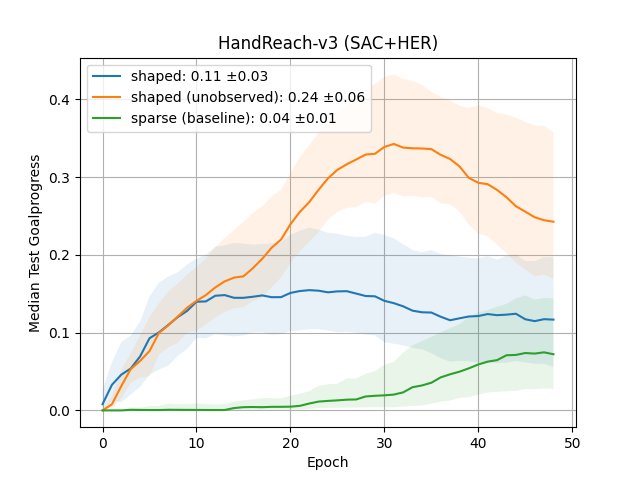
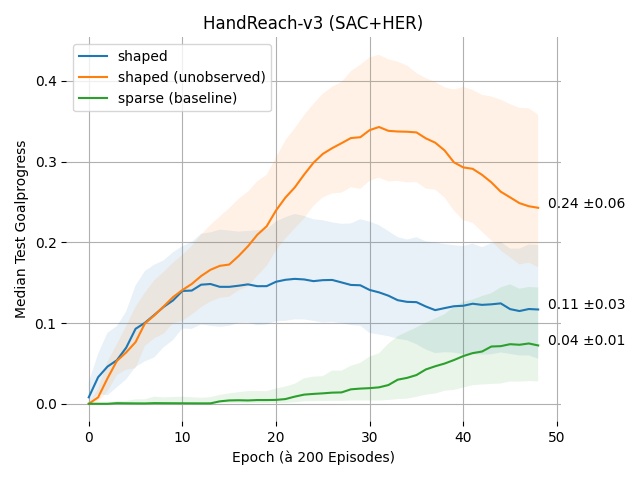
readme

diff --git a/src/custom_envs/goaldyn_handreach/shaped_handreach_env.py b/src/custom_envs/goaldyn_handreach/shaped_handreach_env.py
@@ -84,7 +84,7 @@ class ShapedHandReachEnv(MujocoHandReachEnv):
             obs = np.append(obs, goalderivs)
 
         # dgs-obs
-        IS_OBS_DGS = True
+        IS_OBS_DGS = False
         if IS_OBS_DGS:
             obs = np.append(obs, goaldist)
             obs = np.append(obs, goalderivs)
@@ -125,20 +125,6 @@ class ShapedHandReachEnv(MujocoHandReachEnv):
                 phi = info['phi']
                 reward += 0.95 * phi - phi_prev
 
-        # reward-design (inside vs. outside HER)
-        IS_REWARD_REDESIGN = False
-        if IS_REWARD_REDESIGN:
-            reward = 0
-            if 'goalderivs' in info.keys():
-                goalderivs = info['goalderivs']
-
-                # soft vs. hard dynamics ("get close fast")
-                if np.all(goalderivs < 0):
-                    reward = 1
-                # else:
-                if np.all(goalderivs > 0):
-                    reward = -1
-
         return reward
 
 
@@ -151,6 +137,18 @@ class ShapedHandReachEnv(MujocoHandReachEnv):
         info['phi_prev'] = phi_prev
         info['phi'] = phi
         reward = self.compute_reward(observation['achieved_goal'], observation['desired_goal'], info)
+
+        # reward-design (inside vs. outside HER)
+        IS_REWARD_REDESIGN = True
+        if IS_REWARD_REDESIGN:
+            reward = 0
+            # soft vs. hard dynamics ("get close fast")
+            if np.all(self.step_goalderivs < 0):
+                reward = 1
+            # else:
+            if np.all(self.step_goalderivs > 0):
+                reward = -1
+
 
         if info['is_success']:
             print('SUCCESS')

diff --git a/src/custom_envs/mom_fetchpush/plot.py b/src/custom_envs/mom_fetchpush/plot.py
@@ -239,17 +239,22 @@ all = {
 
 metric = [ex['metric'] for ex in all.values()]
 metric = pd.concat(metric, axis=1, ignore_index=True)
-metric.columns = [f"{ex[0]}: {ex[1].attrs['aucs_mean']} ±{ex[1].attrs['aucs_std']}" for ex in all.items()]
+metric.columns = all.keys()
+
 ax = metric.plot()
+
 ax.set_title('HandReach-v3 (SAC+HER)')
 ax.set_ylabel('Median Test Goalprogress')
-ax.set_xlabel('Epoch')
+ax.set_xlabel('Epoch (à 200 Episodes)')
 ax.set_axisbelow(True)
 
 
 # iqr
-for experiment in all.values():
-    ax.fill_between(x=experiment['epoch'], y1=experiment['q25'], y2=experiment['q75'], alpha=0.1)
+for ex in all.values():
+    ax.fill_between(x=ex['epoch'], y1=ex['q25'], y2=ex['q75'], alpha=0.1)
+    ax.text(x=49, y=ex['metric'].tail(1), s=f"{ex.attrs['aucs_mean']} ±{ex.attrs['aucs_std']}")
 
+plt.tight_layout()
+plt.box(False)
 plt.grid()
 plt.show()

diff --git a/README.md b/README.md
@@ -88,7 +88,7 @@ $$
  
 achieving states that are not only close, but are also expected to be closer in the next states, will be rewarded higher - their *goaldynamics* are more favorable.
 On the other hand, achieving states that are only statically close, or even moving away, will be rewarded lower.
-However, such a frequent rewarding enables *reward hacking*, where the agent might oscillate between moving closer and farther from the goal without actually reaching the goal, i.e. the converged policy is not the optimal policy, let alone a successful one. With a **conjunctive goalkinematic potential**
+However, such a frequent rewarding enables *reward hacking*, where the agent might oscillate between moving closer and farther from the goal without actually reaching the goal, i.e. the converged policy is not the optimal policy, let alone a successful one. With a **conjunctive goalkinematic potential (CGP)**
 
 $$
 \Phi_{conj}(s) =
@@ -99,9 +99,9 @@ $$
 \end{cases}
 $$
 
-that type of reward hacking is less probable with higher order $k$ , since isolated goalderivatives are not rewarded anymore. Since they are also not penalized, exploration is increased - this is especially beneficial in the multi-goal environments of the later sections.
+that type of reward hacking is less probable with higher order $k$ , since isolated goalderivatives are not rewarded anymore. Since they are also not penalized, exploration is allowed - this is especially beneficial in the multi-goal environments of the later sections.
 
-In 5 simulations within Gymnasium's sparse *HandReach* environment, where a robotic hand is trained to reach coordinates with its fingertips, the shaped reward ($k=3, \gamma = 0.95$)
+In 5 simulations à 50 epochs (one epoch consists of 200 episodes  à 50 timesteps) within Gymnasium's sparse *HandReach* environment, where a robotic hand is trained to reach coordinates with its fingertips, the shaped reward ($k=3, \gamma = 0.95$)
 $$
 \begin{split}
 \^R_1(s,a) &= R(s,a) + F(s,a) \\ 
@@ -109,26 +109,26 @@ $$
 \end{split}
 $$
 
-improved the median **sample efficiency**, defined as the area under the curve (AUC) of the *goalprogress*
+increased the evaluation **sample efficiency**, defined as the area under the curve (AUC) of the test *goalprogress*
 
 $$
-P = \frac{d_0 - d_{end}}{d_0} \\
+P = \frac{d_0 - d_{end}}{d_0}\quad (0 \le P \le 1) \\
 (d_{end} := \text{goaldistance at the end of the episode}),
 $$
 
-by factor **2.75** after 50 epochs (one epoch consists of 200 episodes  à 50 timesteps), compared to the unshaped baseline reward. The details of the experiments are described in the full work.
+by factor **2.75** (Fig. 1: blue line) compared to the unshaped baseline reward (Fig. 1: green line). The details of the experiments are described in the full work.
 
 [<img src="res/c1_goalprogress.png" width="100%"/>](res/c1_goalprogress.png) | 
 |:--:| 
-| Fig. 1: *Median test goalprogress (line) with interquartile range (shaded area) and area under the curve (legend)* |
+| Fig. 1: *Median test goalprogress (line) with interquartile range (shaded area) and mean AUC±std (label)* |
 
 
-Note: With potential-based shaping, this claim technically requires that the goaldistance and the DGS are part of the observable state space, which is a separate focus in this research. In the experiments, the efficiency gains were even more substantial (factor **6**, orange line) with non-observable goaldistance and DGS, i.e. possibly justifying the theoretical violation of the Markov assumption.
+Note: With potential-based shaping, this claim technically requires that the goaldistance and the DGS are part of the observable state space, which is a separate focus in this research. In the experiments, the efficiency gains were even more substantial by factor **6** (Fig. 1: orange line) with non-observable goaldistance and DGS, i.e. possibly justifying the theoretical violation of the Markov assumption.
 
 
 > **Research Claim 2** (Goalkinematic Reward Design)
 > 
-> In goal-oriented RL training towards an optimal policy, by designing rewards based on the goalderivative entries of the DGS vector, the training can be successful (i.e. the policy reaches and holds a reasonable goal) and more efficient.
+> In goal-oriented RL training towards an optimal policy, by designing rewards based on the goalderivative entries of the DGS vector, the training can be more efficient.
 
 (Formal Proof)
 
@@ -138,7 +138,7 @@ Note: With potential-based shaping, this claim technically requires that the goa
 
 > **Research Claim 3** (Goalkinematic Observation Augmentation)
 > 
-> In goal-oriented RL training towards an optimal policy, by adding the goalderivative entries of the DGS vector to the observation space, the training can be more efficient.
+> In goal-oriented RL training towards an optimal policy, by adding goalkinematic information to the observation space, the training can be more efficient.
 
 (adding to the markov property)
 
@@ -150,7 +150,10 @@ Note: With potential-based shaping, this claim technically requires that the goa
 
 > **Research Claim 4** (Goalkinematic Observation Reduction)
 > 
-> In goal-oriented RL training towards an optimal policy, by reducing the observation space to the goalderivative entries of the DGS vector of a *verbose* goal (e.g. multi-dimensional and contextual), the training can be successful, more efficient and more general.
+> In goal-oriented RL training towards an optimal policy, by reducing the observation space to contain *only* goalkinematic information, the training can be successful, more efficient and more general.
+
+define success (vs. goalprogress)
+define general
 
 (Experimental Proof)
 (fetchpush)
@@ -194,6 +197,8 @@ Note: With potential-based shaping, this claim technically requires that the goa
 
 ## Anecdotes
 > "with enough goaldimensions, the goaldistance becomes meaningful goalprogress"
+
+> "efficiency does not necessarily mean success/effectiveness"
 
 
 ## TODO
